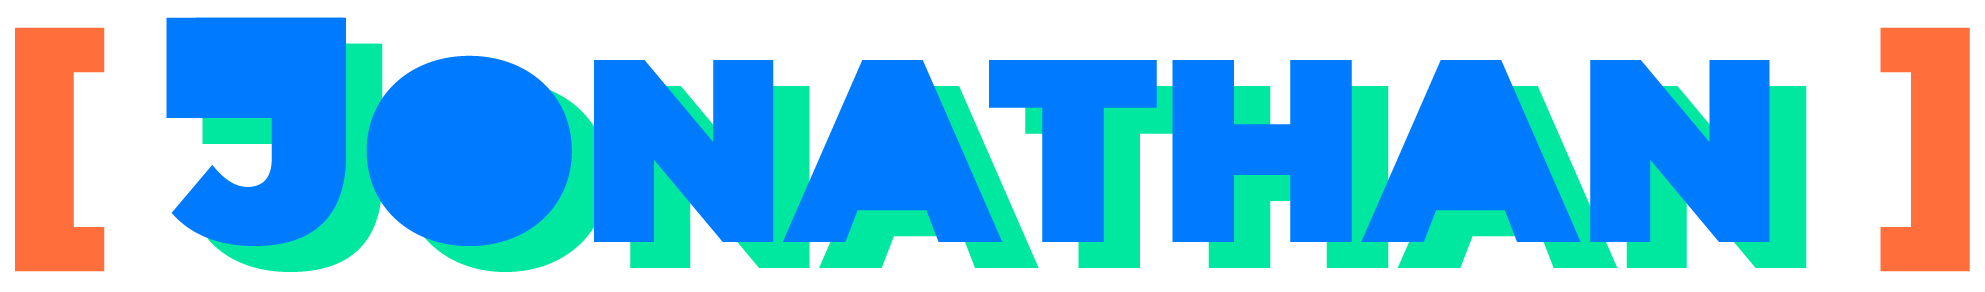
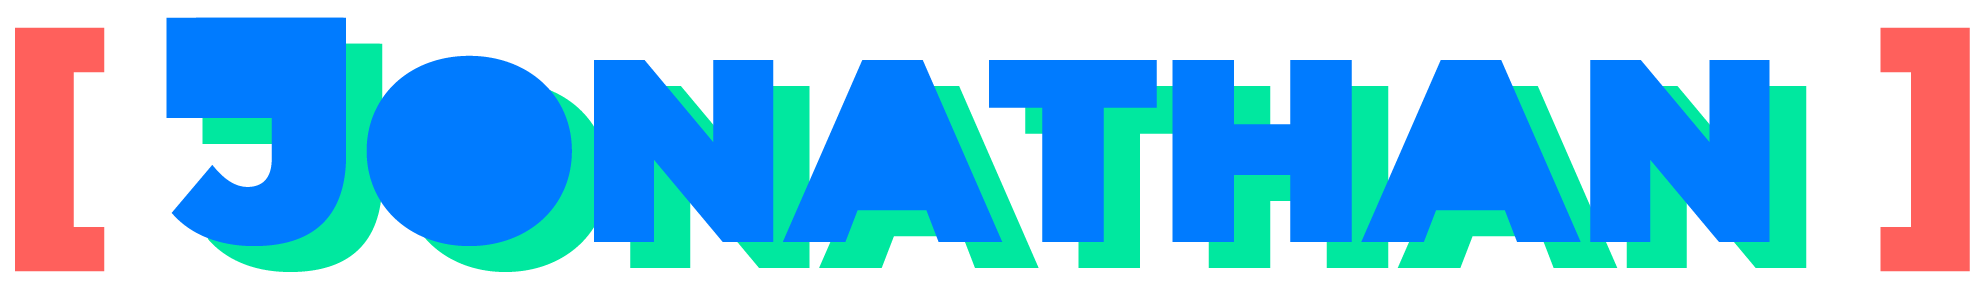
editing home page designs

Changed region(s): [[0.937, 0.0925, 0.9995, 0.9247], [0.0, 0.0925, 0.0625, 0.9247]]

diff --git a/src/components/Home.js b/src/components/Home.js
@@ -5,6 +5,7 @@ import logosImg from "../img/logos.png";
 // import categories from "../assets/home/category";
 // import Work from "./Work.js"
 import works from "../assets/works/worksInfo";
+// import jonLogo from "../img/jon-1.png"
 // import {
 //   // BrowserRouter as Router,
 //   Switch,
@@ -15,34 +16,31 @@ import workCategory from "../assets/home/workCategories"
 
 
 function Home() {
-  works.forEach(work => console.log(work.mainImg))
-
-
-
-
+  // works.forEach(work => console.log(work.mainImg))
 
   return <React.Fragment>
     <section id="heading" className="container-fluid p-5 shadow-md">
       <div className="row h-100">
-        <div className="col-md-7">
+        <div className="col-md-8">
         </div>
-        <div className="col-md-5 d-flex justify-content-center h-100 ">
+        <div className="col-md-4 d-flex justify-content-center h-100 ">
           <div className="align-self-center text-white py-5">
             <h1 className="font-weight-bolder border-bottom-white">Jonathan Le</h1>
             <h3 className="text-light">
               &lt; Web Developer & Designer /&gt;
-          </h3>
+            </h3>
           </div>
         </div>
       </div>
     </section>
     {/* <div className="spacer"><h1 className="font-weight-bolder">ABOUT</h1></div> */}
-    <section className="container-fluid">
+    <section className="container">
       <div className="row">
-        <div className="col-md-1 bg-white"></div>
-        <div id="self" className="col-md-5 d-flex w-100 shadow-md box-shadow-orange">
+        {/* <div className="col-md-1 bg-white"></div> */}
+        <div id="self" className="col-md-6 shadow-md">
+          {/* <img className="img-jon box-shadow-orange" src={jonLogo} alt="logo of myself"/> */}
         </div>
-        <div className="col-md-5 align-self-center justify-content-center">
+        <div className="col-md-6 align-self-center justify-content-center h-100">
           <div className="py-4">
             <h1 className="font-weight-bolder px-md-5">About Me</h1>
             <h3 className="font-weight-bolder px-md-5 text-primary">Hey There!</h3>
@@ -54,16 +52,16 @@ function Home() {
           </p>
           </div>
         </div>
-        <div className="col-md-1 bg-white"></div>
+        {/* <div className="col-md-1 bg-white"></div> */}
       </div>
     </section>
-    <section id="tech" className="container-fluid shadow-md">
+    <section id="tech" className="container-fluid">
       <div className="row h-100 bg-primary">
         <div className="col-sm-1"></div>
         <div className="col-sm-4 align-self-center">
-          <div className="">
+          <div className="p-sm-4">
             <h1 className="font-weight-bolder text-white">Tools I Use</h1>
-            <h3 className="font-weight-bolder ">Web Languages & Frameworks</h3>
+            <h3 className="font-weight-bolder text-dark">Web Languages & Frameworks</h3>
             <p className="text-light">
               For web-based digital products, I actively use Bootstrap, JavaScript, React, JQuery, PHP and MySQL to build responsive and dynamic applications.
             </p>
@@ -73,16 +71,10 @@ function Home() {
           <img className="img-fluid align-self-center p-sm-5" src={logosImg} alt="logos of react.js, MySQL, php, Javascript" />
         </div>
         {/* {logos} */}
-        <div className="col-sm-1"></div>
+        <div className="col-sm-1 "></div>
       </div>
     </section>
-    <section className="container-fluid">
-      <div className="row ">
-
-      </div>
-    </section>
-
-    <section className="container-fluid py-5">
+    <section className="container-fluid py-5 bg-white">
       <div className="py-5">
         <h1 className="text-center font-weight-bolder">Works</h1>
         <h3 className="text-primary text-center font-weight-bold">school works to personal projects</h3>

diff --git a/src/index.css b/src/index.css
@@ -1,16 +1,19 @@
 body {
   margin: 0;
   /* font-family: 'Open Sans', sans-serif; */
-  font-family: 'Source Sans Pro', sans-serif;
-  /* font-family: -apple-system, BlinkMacSystemFont, 'Segoe UI', 'Roboto', 'Oxygen',
-    'Ubuntu', 'Cantarell', 'Fira Sans', 'Droid Sans', 'Helvetica Neue',
-    sans-serif; */
+  font-family: 'Titillium Web', sans-serif;
+  /* font-family: 'Work Sans', sans-serif; */
   -webkit-font-smoothing: antialiased;
   -moz-osx-font-smoothing: grayscale;
   background-color: #f8f9fa;
+  
 }
 nav {
   position: relative;
+}
+footer {
+  overflow: hidden;
+  /* height: 10rem; */
 }
 
 #heading {
@@ -25,10 +28,10 @@ h1 {
   font-size: 3rem;
 }
 #heading h1{
-  font-size: 5.5rem;
+  font-size: 4.5rem;
 }
 #heading h3{
-  font-size: 2rem;
+  font-size: 1.6rem;
   font-weight: 600;
 
 }
@@ -42,9 +45,11 @@ nav a{
   color: #343a40;
   /* color:white */
 }
+.boldish {
+  font-weight:600
+}
 .active {
-  color: #ff6e3b;
-  /* color:white; */
+  color: #007bff;
   border-bottom: 5px solid #007bff;
   transition: 0.25s all;
 }
@@ -93,7 +98,6 @@ nav a{
   width: 100%;
   height: 10rem;
 }
-
 .text-dark{
   color:#343a40
 }
@@ -103,6 +107,9 @@ nav a{
 }
 .img-half {
   width:50%;
+}
+.img-jon{
+  width: 27rem;
 }
 .img-brand{
   width: 15rem;
@@ -119,7 +126,7 @@ nav a{
   background-color: #edeff0;
 }
 .bg-orange {
-  background-color: #ff6e3b;
+  background-color: #ff605c;
 }
 .bg-green {
   background-color: #00e89f;
@@ -148,6 +155,7 @@ nav a{
 .box-shadow-primary {
   box-shadow: 30px -40px #007bff;
 }
+
 /* .header-topic {
   background-size: cover;
   background-position: center;

diff --git a/public/index.html b/public/index.html
@@ -6,7 +6,9 @@
     <meta name="viewport" content="width=device-width, initial-scale=1" />
     <meta name="theme-color" content="#000000" />
     <link rel="stylesheet" href="https://stackpath.bootstrapcdn.com/bootstrap/4.4.1/css/bootstrap.min.css" integrity="sha384-Vkoo8x4CGsO3+Hhxv8T/Q5PaXtkKtu6ug5TOeNV6gBiFeWPGFN9MuhOf23Q9Ifjh" crossorigin="anonymous">
-    <link href="https://fonts.googleapis.com/css?family=Source+Sans+Pro:300,400,600,900&display=swap" rel="stylesheet">
+    <link href="https://fonts.googleapis.com/css?family=Titillium+Web:400,600,900&display=swap" rel="stylesheet"> 
+
+    <!-- <link href="https://fonts.googleapis.com/css?family=Titillium+Webs:400,600,900&display=swap" rel="stylesheet">  -->
     <link href="https://stackpath.bootstrapcdn.com/font-awesome/4.7.0/css/font-awesome.min.css" rel="stylesheet">
     <script src="https://kit.fontawesome.com/c381001857.js" crossorigin="anonymous"></script>
     <meta

diff --git a/src/components/Footer.js b/src/components/Footer.js
@@ -1,7 +1,18 @@
 import React from 'react';
+import logo from '../logo.svg';
+import '../App.css';
 
 export default function Footer() {
   return (
-      <div className="py-5 bg-black">Hello</div>
+    <footer className="bg-white text-dark container-fluid pb-4">
+      <div className="row d-flex justify-content-center">
+          <div className="align-self-center">
+            <img src={logo} className="App-logo" alt="logo" />
+            <div className="">
+              <p className="text-center">Hand built with React.js<br/>Jonathan Le © 2020</p>
+            </div>
+          </div>
+      </div>
+    </footer>
   )
 }

diff --git a/src/components/Navbar.js b/src/components/Navbar.js
@@ -51,7 +51,7 @@ export default function NavBar() {
     // })
 
     return (
-        <nav className="navbar navbar-expand-lg navbar-light bg-light d-flex px-5  py-3 fixed-top shadow-sm ">
+        <nav className="navbar navbar-expand-lg navbar-light bg-light d-flex px-5  py-3 fixed-top shadow-sm w-50">
             <div className="container">
             <Link className="navbar-brand font-weight-bolder px-3" to="/">
                 <img className="img-brand" src={jonathan} alt="Jonathan"/>

diff --git a/src/App.css b/src/App.css
@@ -3,7 +3,7 @@
 }
 
 .App-logo {
-  height: 40vmin;
+  height: 14vmin;
   pointer-events: none;
 }
 
@@ -12,20 +12,8 @@
     animation: App-logo-spin infinite 20s linear;
   }
 }
-
-.App-header {
-  background-color: #282c34;
-  min-height: 100vh;
-  display: flex;
-  flex-direction: column;
-  align-items: center;
-  justify-content: center;
-  font-size: calc(10px + 2vmin);
-  color: white;
-}
-
 .App-link {
-  color: #61dafb;
+  color: #007bff;
 }
 
 @keyframes App-logo-spin {

diff --git a/src/assets/works/works.js b/src/assets/works/works.js
@@ -1,9 +1,17 @@
 import React from 'react';
-import works from './worksInfo'
+import {
+    //   BrowserRouter as Router,
+    useParams
+  } from "react-router-dom";
+// import works from './worksInfo'
+// import works from './worksInfo';
 
 export default function Works() {
-    console.log(works)
+    let { type } = useParams();
+    
+    // console.log(works)
     return <React.Fragment>
         <div>hello</div>
+        <div>{type}</div>
     </React.Fragment>
 }

diff --git a/src/assets/works/worksTitle.js b/src/assets/works/worksTitle.js
@@ -6,7 +6,12 @@ import {
 import categories from '../home/category'
 
 export default function WorkTitle() {
+  // const [color, setColor ] = useState('')
   let { subId } = useParams();
+  // console.log('hello')
+  // useEffect(()=> {
+  //   console.log(color)
+  // })
   let title = categories.map(element => {
     return <React.Fragment key={element.id}>
       {subId === element.id ? element.title : ''}

diff --git a/src/components/Work.js b/src/components/Work.js
@@ -36,8 +36,10 @@ export default function Work() {
         {categoryLinks}
       </div>
     </section>
-    <section>
-      <Works/>
-    </section>
+    <Route path={`${path}/:type`}>
+      <section>
+        <Works/>
+      </section>
+    </Route>
   </React.Fragment>
 }

diff --git a/src/assets/home/logos.js b/src/assets/home/logos.js
@@ -1,3 +1,12 @@
+
+
+
+
+// No Longer Needed
+
+
+
+
 import React, {
   // useState, useEffect 
 } from 'react';
@@ -27,4 +36,4 @@ const logos = [
     </div>
   </div>
 })
-export default logos
+// export default logos
